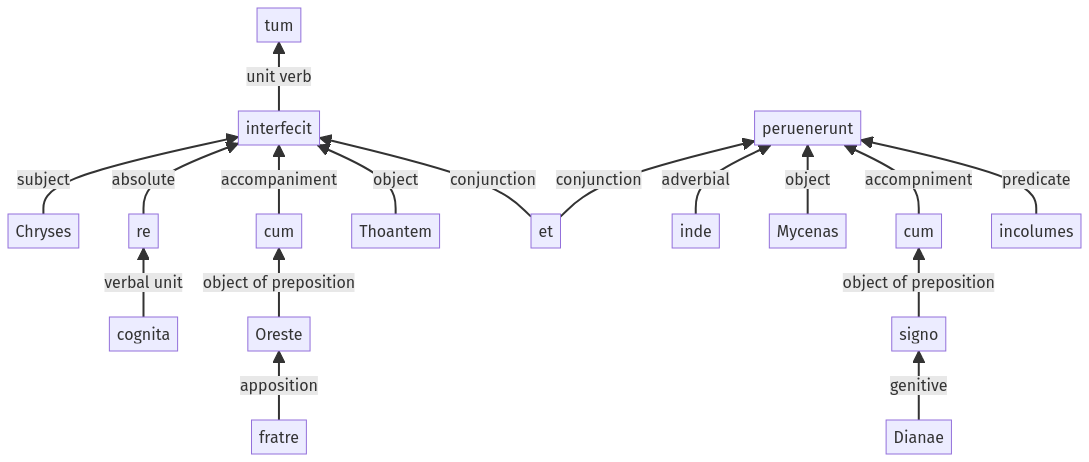
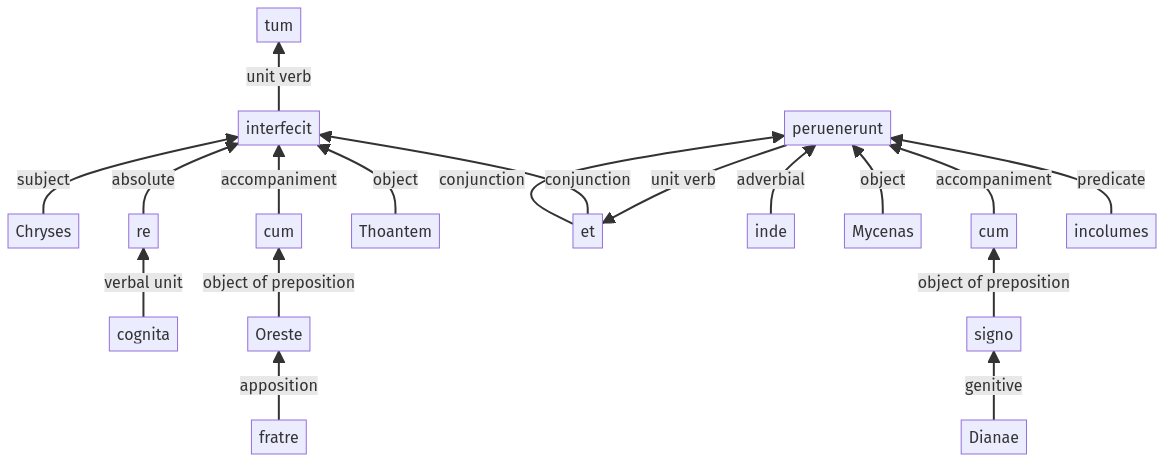
Update Hyginus

diff --git a/docs/hyginus/reader/121a.3.33-121a.3.49a.html b/docs/hyginus/reader/121a.3.33-121a.3.49a.html
@@ -15,9 +15,9 @@
  <span  >tum</span> <span  >Chryses</span> <span  >re</span> <span  >cognita</span> <span  >cum</span> <span  >Oreste</span> <span  >fratre</span> <span  >Thoantem</span> <span  >interfecit</span> <span  >et</span> <span  >inde</span> <span  >Mycenas</span> <span  >cum</span> <span  >signo</span> <span  >Dianae</span> <span  >incolumes</span> <span  >peruenerunt</span>.
 </div>
 
-<div class="passage"><div class="passage"><blockquote class="subordination"><blockquote class="subordination"><span class="ref">1</span>   <span class="subject" >Chryses</span></blockquote><blockquote class="subordination"><blockquote class="subordination"><span class="ref">2</span>   <span class="" >re</span> <span class="" >cognita</span></blockquote></blockquote><blockquote class="subordination"><span class="ref">1</span>   <span class="" >cum</span> <span class="" >Oreste</span> <span class="" >fratre</span> <span class="object" >Thoantem</span> <span class="verb" >interfecit</span></blockquote><blockquote class="subordination"><span class="ref">1</span>   <span class="" >et</span> <span class="" >inde</span> <span class="object" >Mycenas</span> <span class="" >cum</span> <span class="" >signo</span> <span class="" >Dianae</span> <span class="" >incolumes</span> <span class="" >peruenerunt</span></blockquote></div></div>
+<div class="passage"><div class="passage"><blockquote class="subordination"><blockquote class="subordination"><span class="ref">1</span>   <span class="subject" >Chryses</span></blockquote><blockquote class="subordination"><blockquote class="subordination"><span class="ref">2</span>   <span class="" >re</span> <span class="" >cognita</span></blockquote></blockquote><blockquote class="subordination"><span class="ref">1</span>   <span class="" >cum</span> <span class="" >Oreste</span> <span class="" >fratre</span> <span class="object" >Thoantem</span> <span class="verb" >interfecit</span></blockquote><blockquote class="subordination"><span class="ref">1</span>   <span class="" >et</span> <span class="" >inde</span> <span class="object" >Mycenas</span> <span class="" >cum</span> <span class="" >signo</span> <span class="" >Dianae</span> <span class="" >incolumes</span> <span class="verb" >peruenerunt</span></blockquote></div></div>
 
-<div class="passage"> <span class="connector" >tum</span> <span class="subject" style="color: #79A6A3">Chryses</span> <span class="" style="color: #E5B36A">re</span> <span class="" style="color: #E5B36A">cognita</span> <span class="" style="color: #79A6A3">cum</span> <span class="" style="color: #79A6A3">Oreste</span> <span class="" style="color: #79A6A3">fratre</span> <span class="object" style="color: #79A6A3">Thoantem</span> <span class="verb" style="color: #79A6A3">interfecit</span> <span class="" style="color: #C7D7CA">et</span> <span class="" style="color: #C7D7CA">inde</span> <span class="object" style="color: #C7D7CA">Mycenas</span> <span class="" style="color: #C7D7CA">cum</span> <span class="" style="color: #C7D7CA">signo</span> <span class="" style="color: #C7D7CA">Dianae</span> <span class="" style="color: #C7D7CA">incolumes</span> <span class="" style="color: #C7D7CA">peruenerunt</span>.</div>
+<div class="passage"> <span class="connector" >tum</span> <span class="subject" style="color: #79A6A3">Chryses</span> <span class="" style="color: #E5B36A">re</span> <span class="" style="color: #E5B36A">cognita</span> <span class="" style="color: #79A6A3">cum</span> <span class="" style="color: #79A6A3">Oreste</span> <span class="" style="color: #79A6A3">fratre</span> <span class="object" style="color: #79A6A3">Thoantem</span> <span class="verb" style="color: #79A6A3">interfecit</span> <span class="" style="color: #C7D7CA">et</span> <span class="" style="color: #C7D7CA">inde</span> <span class="object" style="color: #C7D7CA">Mycenas</span> <span class="" style="color: #C7D7CA">cum</span> <span class="" style="color: #C7D7CA">signo</span> <span class="" style="color: #C7D7CA">Dianae</span> <span class="" style="color: #C7D7CA">incolumes</span> <span class="verb" style="color: #C7D7CA">peruenerunt</span>.</div>
 
 <div class="key right"><strong>Highlighting</strong>:<ul>
 <li><span class="connector">connecting words</span>
